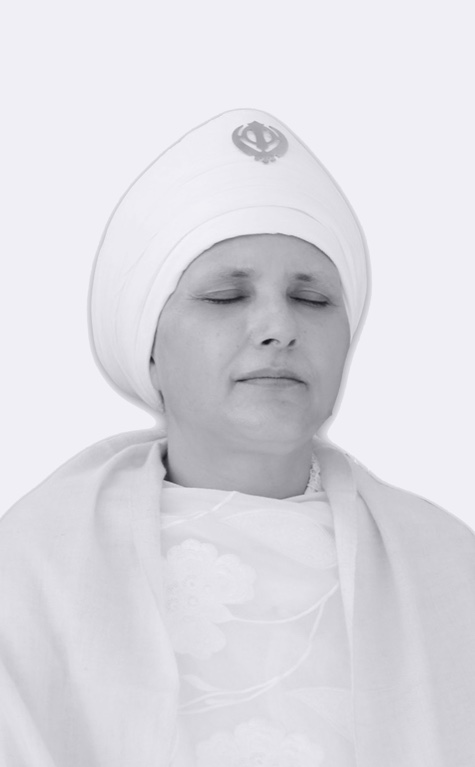
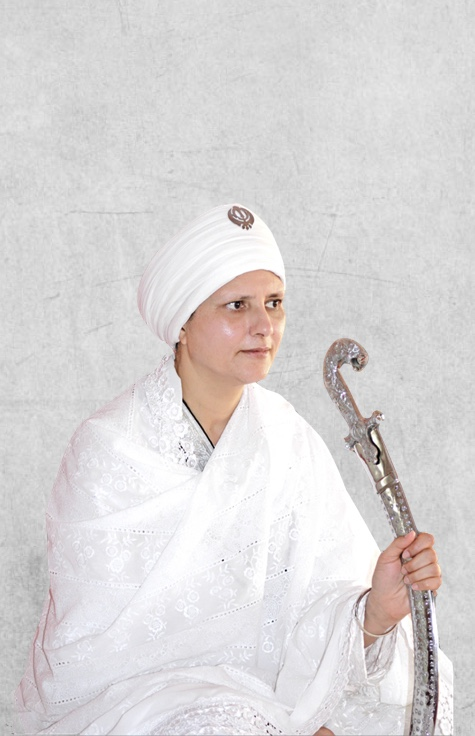
Home-Page, hero-section variations

diff --git a/app/pages/index/components/sectionHero-v2/_bachans-list.scss b/app/pages/index/components/sectionHero-v2/_bachans-list.scss
@@ -19,10 +19,9 @@ $total-time-to-animate: $animation-delay * $num-of-items;
   max-height: 73.6rem;
 
   background-size: cover;
-  background-color:	#EEEDF5;
 
-  // background-image: url('../images/home/mob/hero-c.jpg');
-  background-image: url('../images/home/mob/hero-768.jpg');
+  background-image: url('../images/home/mob/hero-c.jpg');
+  // background-image: url('../images/home/mob/hero-768.jpg');
   background-position: center center;
   background-repeat: no-repeat;
   
@@ -37,10 +36,13 @@ $total-time-to-animate: $animation-delay * $num-of-items;
   }
 
   @media all and ( min-width: 972px ) {
-    background-position: 10%;
+    // background-repeat: no-repeat;
+    // background-size: contain;
+    // background-position: 10%;
+    background-image: url('../images/home/mob/hero-768.png');
     background-repeat: no-repeat;
-    background-size: contain;
-    background-position: 10%;
+    background-size: cover;
+    background-position: left;
   }
 
 }
@@ -68,7 +70,7 @@ $total-time-to-animate: $animation-delay * $num-of-items;
 
     font-size: 1.8rem;
 
-    background: rgba(229, 99, 63, 0.9);
+    // background: rgba(229, 99, 63, 0.9);
 
     line-height: 3rem;
     padding: 0 2rem;
@@ -95,11 +97,13 @@ $total-time-to-animate: $animation-delay * $num-of-items;
     &-desc {
       margin: 5px 0;
       margin: 0.5rem 0;
+      color: #1d1414;
     }
 
     &-author {
       margin: 5px 0;
       margin: 0.5rem 0;
+      color: #CE3203;
       // font-size: 20px;
       // font-size: 2rem;
     }

diff --git a/app/pages/index/components/sectionHero-v2/_sectionHero-v2.scss b/app/pages/index/components/sectionHero-v2/_sectionHero-v2.scss
@@ -1,6 +1,8 @@
 .sgnm-hero-section {
 
-  background-color:	#EEEDF5;
+  @media all and ( min-width: 809px ) {
+    background: url("../images/home/mob/hero-bg-filler.jpg");
+  }
 
   &__bg-shade {
     &:after {
@@ -27,6 +29,28 @@
     }
   }
     
+  // &:after {
+  //   position: absolute;
+
+  //   width: 100%;
+  //   min-width: 320px;
+
+  //   height: 100vh;
+  //   min-height: 600px;
+  //   min-height: 60rem;
+  //   max-height: 736px;
+  //   max-height: 73.6rem;
+
+  //   top: 0px;
+  //   left: 0px;
+  //   content: '';
+  //   background: rgba(0, 0, 0, 0.5);
+
+  //   @media only screen and ( min-width: 550px ) {
+  //     min-height: 650px;
+  //     min-height: 65rem;
+  //   }
+  // }
 }
 
 @import 'app/pages/index/components/sectionHero-v2/bachans-list';

diff --git a/app/pages/index/index.scss b/app/pages/index/index.scss
@@ -88,6 +88,7 @@
 
     .tri-widgets-content {
       margin: 0;
+      text-align: center;
     }
 
     .tri-widgets-content__address {

diff --git a/app/styles/_header.scss b/app/styles/_header.scss
@@ -184,3 +184,7 @@
       background-size: cover;
     }
 }
+
+.sgnm-primary-header li a {
+  color: #524b4b;
+}
